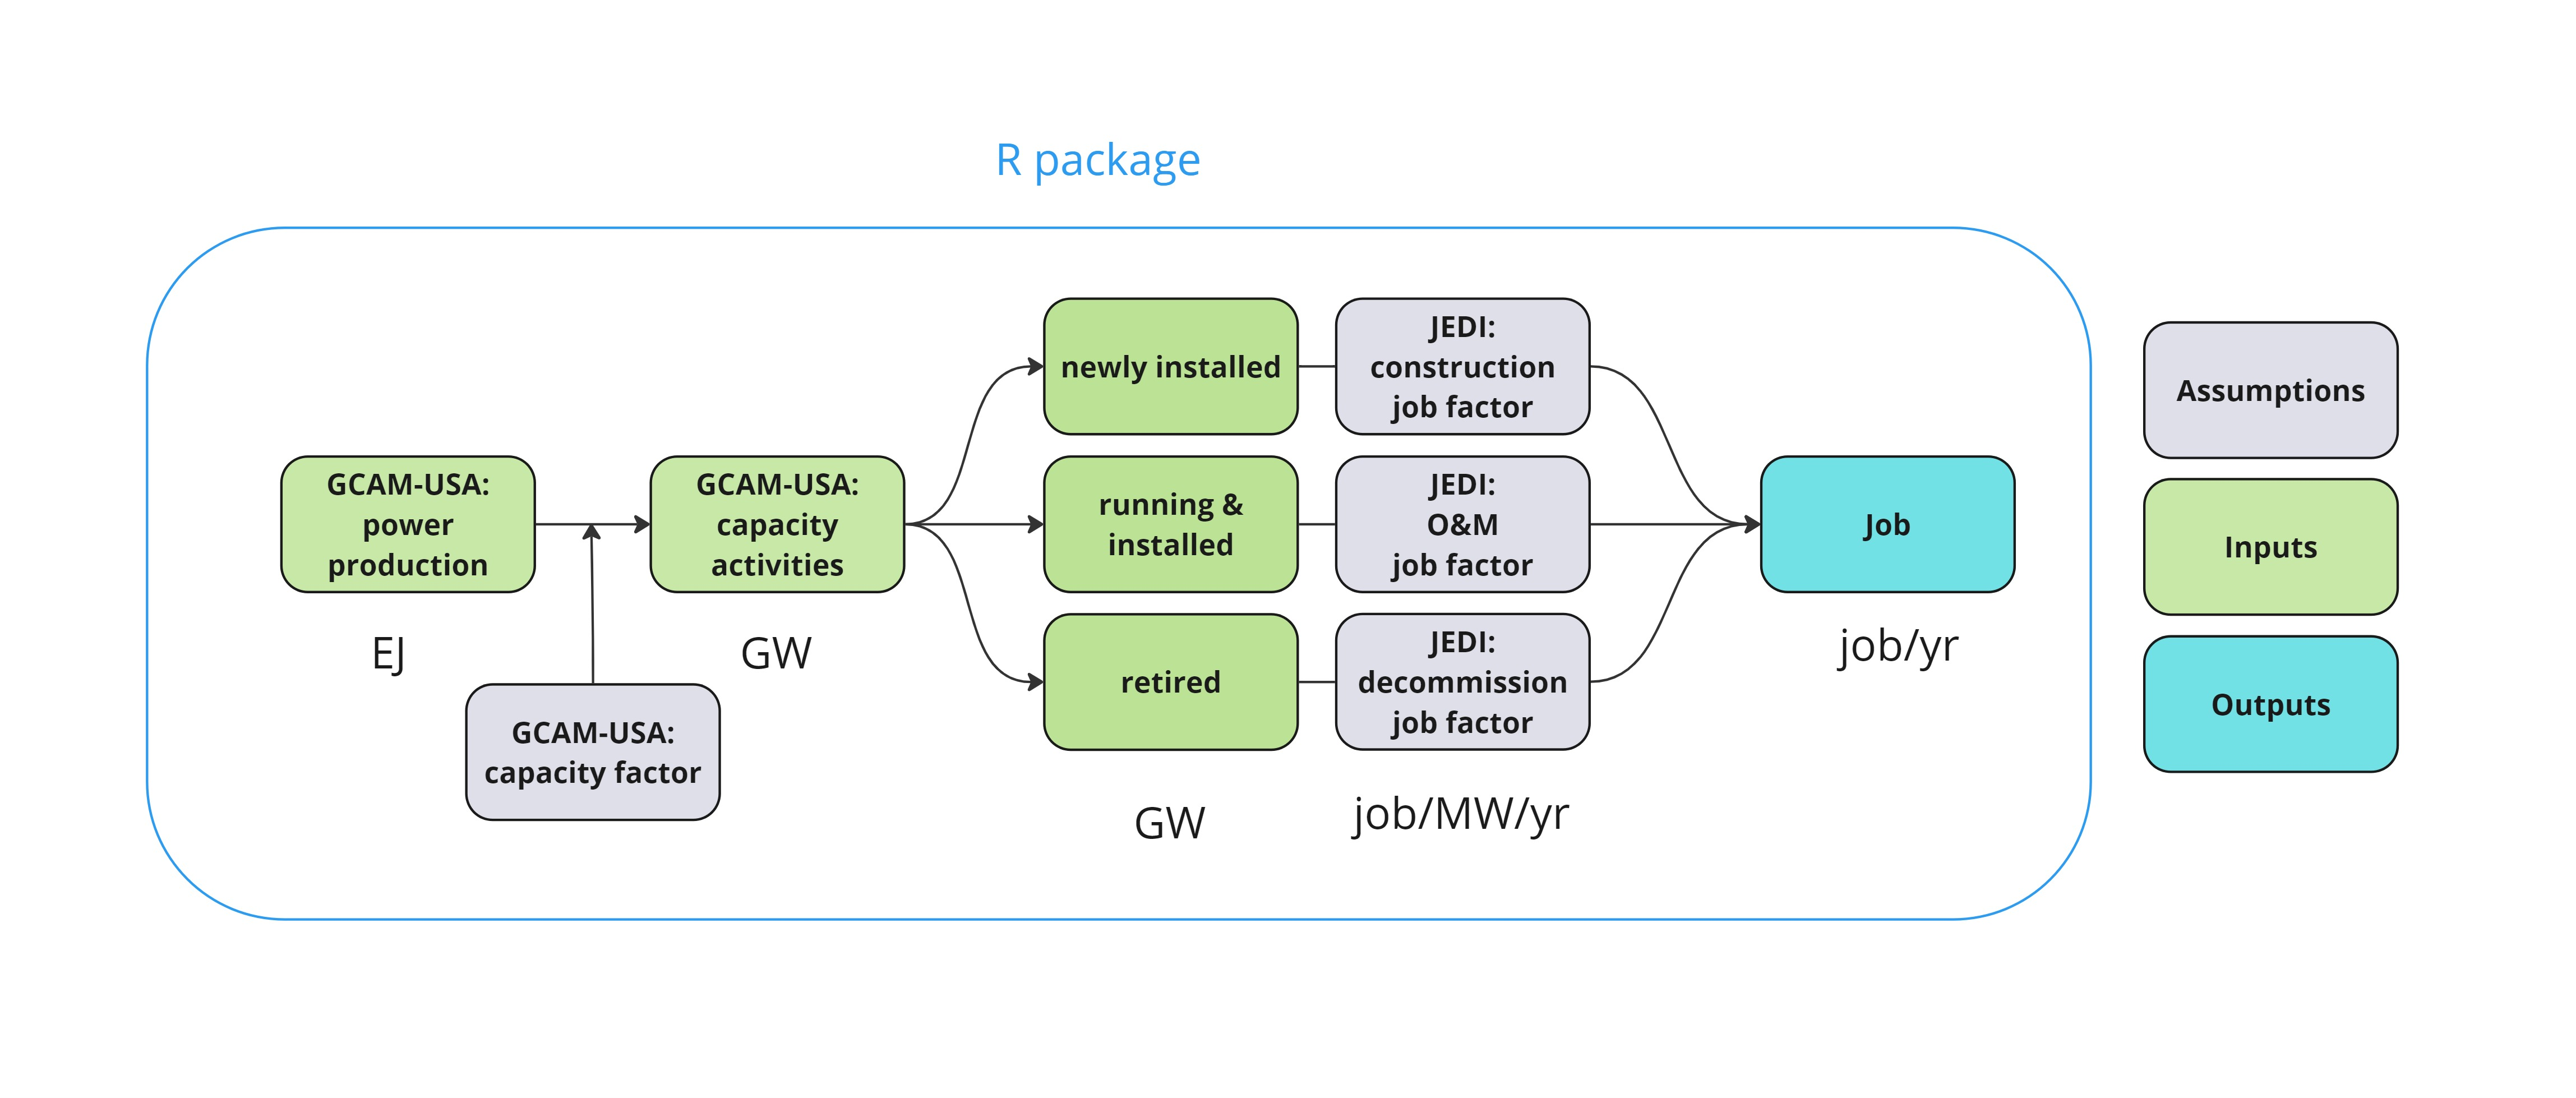
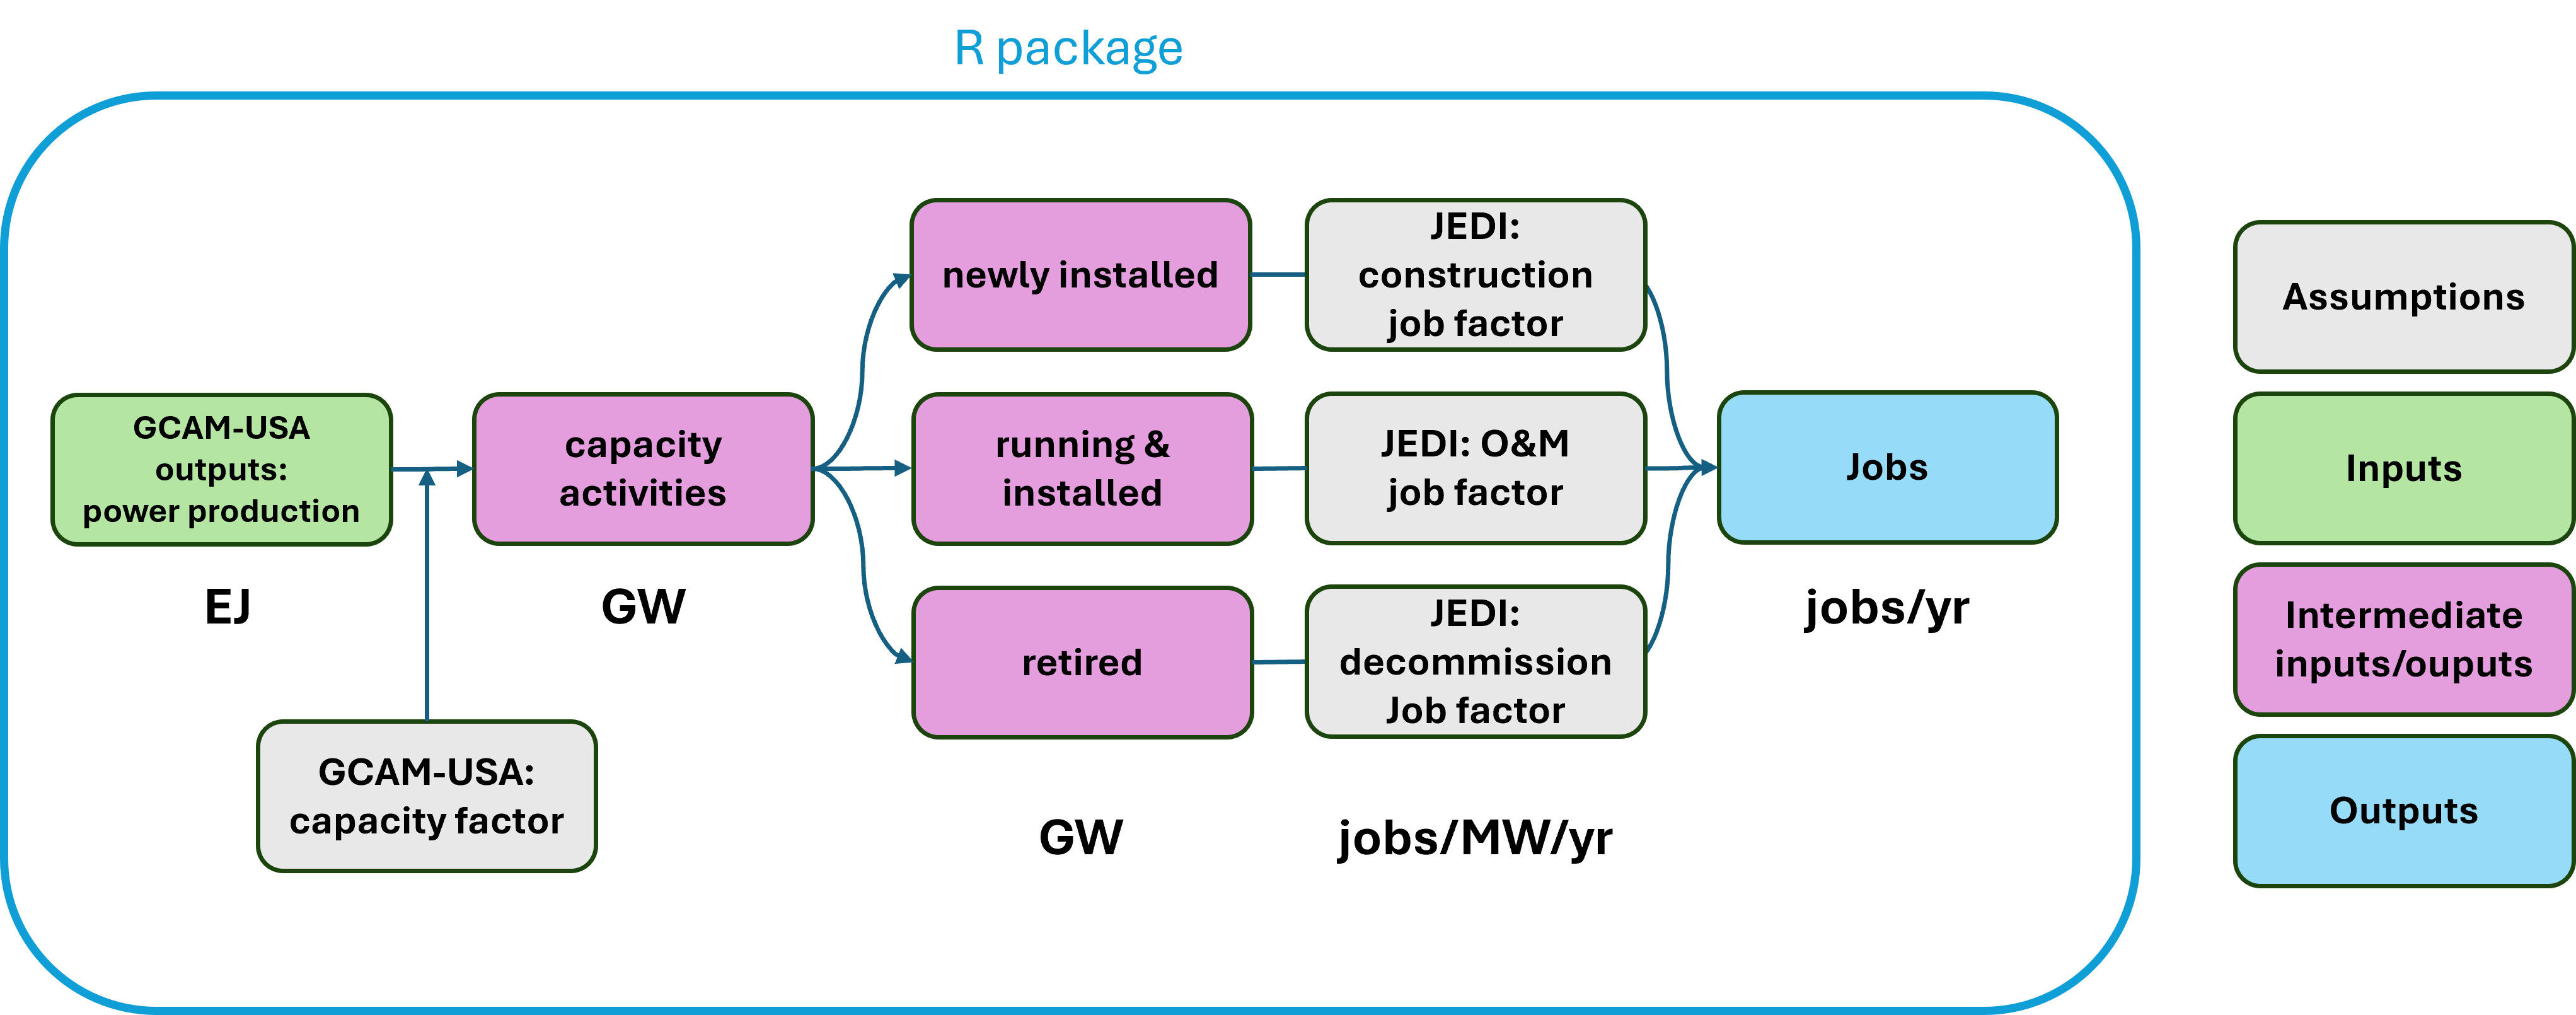
update paper

diff --git a/paper/paper.md b/paper/paper.md
@@ -36,60 +36,67 @@ affiliations:
 # Summary
 
 The `GCAMUSAJobs` R package was developed to post-process electric power
-projections from GCAM-USA [@GCAM82], enabling the estimation of future power sector jobs
+projections from GCAM-USA, enabling the estimation of future power sector jobs
 at the state-level by generation technology and job type. `GCAMUSAJobs` extends
-GCAM-USA functionality by (1) estimating the capacity levels of different
-activities – operational capacity, capacity addition, and retirement; and (2)
-calculating jobs associated with production activities, including those in
-operation and maintenance (O&M), construction, and decommissioning.
-Additionally, this package is designed to be easily adaptable to the output of
-other energy system models besides GCAM-USA.
+GCAM-USA functionality by estimating the capacity levels of different activities
+– operational capacity, capacity addition, and retirement; and calculating jobs
+associated with those activities, including operation and maintenance (O&M),
+construction, and decommissioning. Additionally, this package is designed to be
+easily adaptable to the output of other energy system models and Integrated
+Assessment Models (IAMs) besides GCAM-USA.
 
 # Statement of need
 
-The development of `GCAMUSAJobs` was driven by the need to assess the
-distributional labor impacts of energy system evolution [@xie2023distributional;
-@mayfield2023labor; @hanson2023local; @raimi2021mapping]. While gross employment
-[@mayfield2023labor] and power sector employment [@xie2023distributional] are
-expected to grow into the future, under both business as usual (BAU) and
-alternative scenarios, @xie2023distributional find insignificant differences in
-the U.S. national power sector jobs between BAU and decarbonization scenarios.
-However, distributional differences across U.S. states are much more
-significant, e.g., fossil fuel-intensive states may experience slower job growth
-or job losses, which was also found in other studies [@hanson2023local;
-@mayfield2023labor].
+It is important to assess the distributional labor impacts of energy system
+evolution, which can affect labor demand across regions, technologies, and skill
+groups [@xie2023distributional; @mayfield2023labor; @hanson2023local;
+@raimi2021mapping]. While gross employment [@mayfield2023labor] and power sector
+employment [@xie2023distributional] are expected to grow into the future under
+both business as usual (BAU) and alternative scenarios, these aggregate trends
+mask important distributional differences. @xie2023distributional find
+insignificant differences in the United States (U.S.) national power sector jobs
+between BAU and decarbonization scenarios; however, distributional differences
+across U.S. states are much more significant. For example, fossil fuel-intensive
+states may experience slower job growth or job losses, which was also found in
+other studies [@hanson2023local; @mayfield2023labor].
 
-The Global Change Analysis Model (GCAM) and its ancillary model GCAM-USA
-[@GCAM82] are integrated multi-sector models that focus on the interaction among
-human activities, technology, and physical systems. They are powerful tools for
-studying energy systems dynamics and evolution. Many previous studies have
-applied the model to analyze potential impacts on the energy system and
-associated outcomes due to environmental and socioeconomic changes [e.g.,
-@feijoo2020us; @ganji2024implications; @ou2018estimating; @pan2025assessment;
-@zhang2025long]. Currently, GCAM-USA does not calculate power sector jobs.
-`GCAMUSAJobs` addresses this gap by providing projected direct power sector jobs
-based on GCAM-USA output, enhancing the functionality of GCAM-USA for labor
-impact analysis.
+The Global Change Analysis Model (GCAM) and its regional extension GCAM-USA with
+state-level details [@GCAM82] are integrated multi-sector models that focus on
+the interaction among human activities, technology, and physical systems. They
+are powerful tools for studying energy systems dynamics and evolution. Many
+previous studies have applied the model to analyze potential impacts on the
+energy system and associated outcomes due to environmental and socioeconomic
+changes [e.g., @feijoo2020us; @ganji2024implications; @ou2018estimating;
+@pan2025assessment; @zhang2025long]. Currently, GCAM-USA does not calculate
+power sector jobs. `GCAMUSAJobs` addresses this gap by providing projected
+direct power sector jobs based on GCAM-USA output, enhancing the functionality
+of GCAM-USA for labor impact analysis.
 
 # State of the field
 
-To our knowledge, there is currently no tool that extends the capability of an
-integrated multi-sector model such as GCAM-USA to analyze the impact of energy
-system changes on employment. The most closely related available tool is the
-Jobs & Economic Development Impacts (JEDI) model [@nrel_jobs_nodate]. JEDI
-develops employment factors (jobs per unit of capacity) for a range of power
-generation technologies. In contrast, `GCAMUSAJobs` uses JEDI results as an
-input, combining them with outputs from GCAM-USA to analyze employment
-consequences of alternative energy system futures. `GCAMUSAJobs` is
-complementary to JEDI, filling a methodological and software gap by bridging the
-capability of GCAM-USA (or other energy system models) with the information
-provided by JEDI, without duplicating or modifying either of the models.
+Existing studies extended IAMs to include employment impacts through
+post-processing IAM outputs combined with employment factors [e.g.,
+@pai_meeting_2021; @malik_climate_2021; @emmerling_green_2025]. However, these
+studies estimated the employment impacts at EU-country level or broader regional
+level. To our knowledge, there is currently no tool that extends the capability
+of an integrated multi-sector model or IAM at subnational level, such as
+GCAM-USA, to analyze the impact of energy system changes on employment. The most
+closely related available tool is the Jobs & Economic Development Impacts (JEDI)
+model [@nrel_jobs_nodate]. JEDI develops employment factors (jobs per unit of
+capacity) for a range of power generation technologies. In contrast,
+`GCAMUSAJobs` uses JEDI results as an input, combining them with outputs from
+GCAM-USA to analyze employment consequences of alternative energy system
+futures. `GCAMUSAJobs` is complementary to JEDI, filling a methodological and
+software gap by bridging the capability of GCAM-USA (or other energy system
+models) with the information provided by JEDI, without duplicating or modifying
+either of the models.
 
 # Software design
 
-The direct purpose of `GCAMUSAJobs` is to calculate different types of jobs in
-the power sector across U.S. states, built upon the existing open-source model
-GCAM-USA. As GCAM-USA is a complex multi-sector model with technological
+The direct purpose of `GCAMUSAJobs` is to calculate the number of different
+types of jobs in the power sector (e.g., O&M workers, construction workers,
+decommissioning workers) across U.S. states, built upon the existing open-source
+model GCAM-USA. As GCAM-USA is a complex multi-sector model with technological
 details, our design involves in-depth understanding and testing of how various
 components work together in GCAM-USA, especially in the power sector, so that we
 can properly design the jobs calculation in our package and source available
@@ -97,54 +104,35 @@ matching data (e.g., employment factors). This requires irreplaceable human
 efforts to comprehend the existing software and extend its capability through
 collaboration with GCAM-USA modelers and domain experts in socioeconomics.
 
-`GCAMUSAJobs` is also designed to be easily adaptable to the output of broader
-energy system models to enable extended employment analysis. `GCAMUSAJobs`
-provides detailed employment factors extracted from simulations of the JEDI
-model, which calculates employment factors under a range of assumptions about
-power sector technologies. This means users can supply capacity activity output
-from an energy system model in the required format and conduct employment
-analysis using those readily applicable employment factors. For GCAM-USA users,
-the workflow is further simplified by directly ingesting GCAM-USA output
+`GCAMUSAJobs` is designed to be easily adaptable to the output of broader energy
+system models to enable extended employment analysis. `GCAMUSAJobs`’s workflow
+moves from annual electricity generation outputs, to estimation of underlying
+capacity levels based on assumptions about capacity factors, to calculations of
+associated power sector jobs based on employment factors (Figure 1). For
+GCAM-USA users, the workflow is simplified by directly ingesting GCAM-USA output
 databases in their original format and automatically performing capacity
-activity and employment analysis.
+activity and employment analysis. For users of other energy system models or
+IAMs, `GCAMUSAJobs` provides detailed employment factors extracted from
+simulations of the JEDI model, which calculates employment factors under a range
+of assumptions about power sector technologies. This means users can supply
+capacity activity output from an energy system model or IAM in the required
+format and conduct employment analysis using those readily applicable employment
+factors. The employment factor represents the average number of jobs created per
+unit of power production activity (e.g., jobs per gigawatt). This method is
+widely used in the relevant literature [@rutovitz2015calculating;
+@mayfield2023labor]. `GCAMUSAJobs` adopts employment factors from the JEDI
+model, which has been broadly used in the literature [@xie2023distributional;
+@rutovitz2015calculating; @jacobson2017100].
+
+![Package workflow.](Workflow.png)
 
 The package structure also allows users to access intermediate outputs and
 develop custom functions to examine or adapt analytical components. Besides,
 `GCAMUSAJobs` includes user-configurable options for key model assumptions and
-built-in visualization tools for rapid diagnostics.
-
-# Research impact statement
-
-`GCAMUSAJobs` enables a new workflow to analyze various potential impacts on
-power sector jobs across U.S. states. Sources of impact can include, but are not
-limited to, socioeconomic development, environmental change, policy targets, and
-technological advancement. `GCAMUSAJobs` can perform ex-ante quantitative
-analysis of the associated distributional impacts on state-level power sector
-jobs. It can support analytical work in academic research and inform
-policymaking by providing useful information for preparedness and targeted
-responses to the anticipated impacts. `GCAMUSAJobs` has been used by researchers
-at the University of Maryland (external adopter) for a published report on the
-renewable energy transition in Maryland and its implications
-[@Kennedy2024renewable]. Specifically, the report provides direct job estimates
-at Maryland’s thermal power plants based on facility characteristics (e.g.,
-nameplate capacity, capacity factor, and fuel type) and the employment factors
-produced by this package. Meanwhile, the package is expected to be developed by
-external researchers to expand its capabilities and grow its user base.
-
-
-# Workflow
-
-![Figure. 1. Package workflow.](Workflow.png)
-
-`GCAMUSAJobs` utilizes GCAM-USA annual electricity generation outputs to
-estimate underlying capacity levels based on assumptions about capacity factors
-and calculate associated power sector jobs based on employment factors (Fig. 1).
-The employment factor represents the average number of jobs created per unit of
-power production activity (e.g., jobs per gigawatt). This method is widely used
-in the relevant literature [@rutovitz2015calculating; @mayfield2023labor].
-`GCAMUSAJobs` adopts employment factors from the JEDI model, which has been
-broadly used in the literature [@xie2023distributional;
-@rutovitz2015calculating; @jacobson2017100].
+built-in visualization tools for rapid diagnostics. The following section
+provides a brief description of key functions of this package. A detailed
+methodology is available at
+https://jgcri.github.io/GCAMUSAJobs/articles/methods.html
 
 # Key functions
 
@@ -180,13 +168,32 @@ job outcomes.
 well as a project data file queried using the R package `rgcam`. Please refer to
 the package vignette for additional examples and visualizations.
 
-## Implementation
+# Research impact statement
 
-For demonstration purposes, we use `GCAMUSAJobs` to post-process the outcome
-from GCAM v7.1 for a standard reference scenario, estimating the direct job,
-aggregated over states, associated with U.S. power generation (Fig. 2).
+`GCAMUSAJobs` enables a new workflow to analyze various potential impacts on
+power sector jobs across U.S. states. Sources of impact include, but are not
+limited to, socioeconomic development, environmental change, policy targets, and
+technological advancement. `GCAMUSAJobs` can perform ex-ante quantitative
+analysis of the associated distributional impacts on state-level power sector
+jobs. It can support analytical work in academic research and inform
+policymaking by providing useful information for preparedness and targeted
+responses to the anticipated impacts. For demonstration purposes, we use
+`GCAMUSAJobs` to post-process the outcome from GCAM v7.1 for a standard reference
+scenario, estimating the direct job, aggregated over states, associated with
+U.S. power generation (Figure 2).
 
-![Figure. 2. Annual average power sector jobs by fuel and job types over a 5-year model period. Note that y-axes have different scales.](Jobs.png)
+![Annual average power sector jobs by fuel and job types over a 5-year model period. Note that y-axes have different scales.](Jobs.png)
+
+`GCAMUSAJobs` has been used by researchers at the University of Maryland
+(external adopter) for a published report on the renewable energy transition in
+Maryland and its implications [@Kennedy2024renewable]. Specifically, the report
+provides direct job estimates at Maryland’s thermal power plants based on
+facility characteristics (e.g., nameplate capacity, capacity factor, and fuel
+type) and the employment factors produced by this package. Additionally,
+`GCAMUSAJobs` is being used in an ongoing PhD dissertation at the University of
+Maryland. Meanwhile, the package is expected to be developed by external
+researchers to expand its capabilities and grow its user base.
+
 
 # AI usage disclosure
 